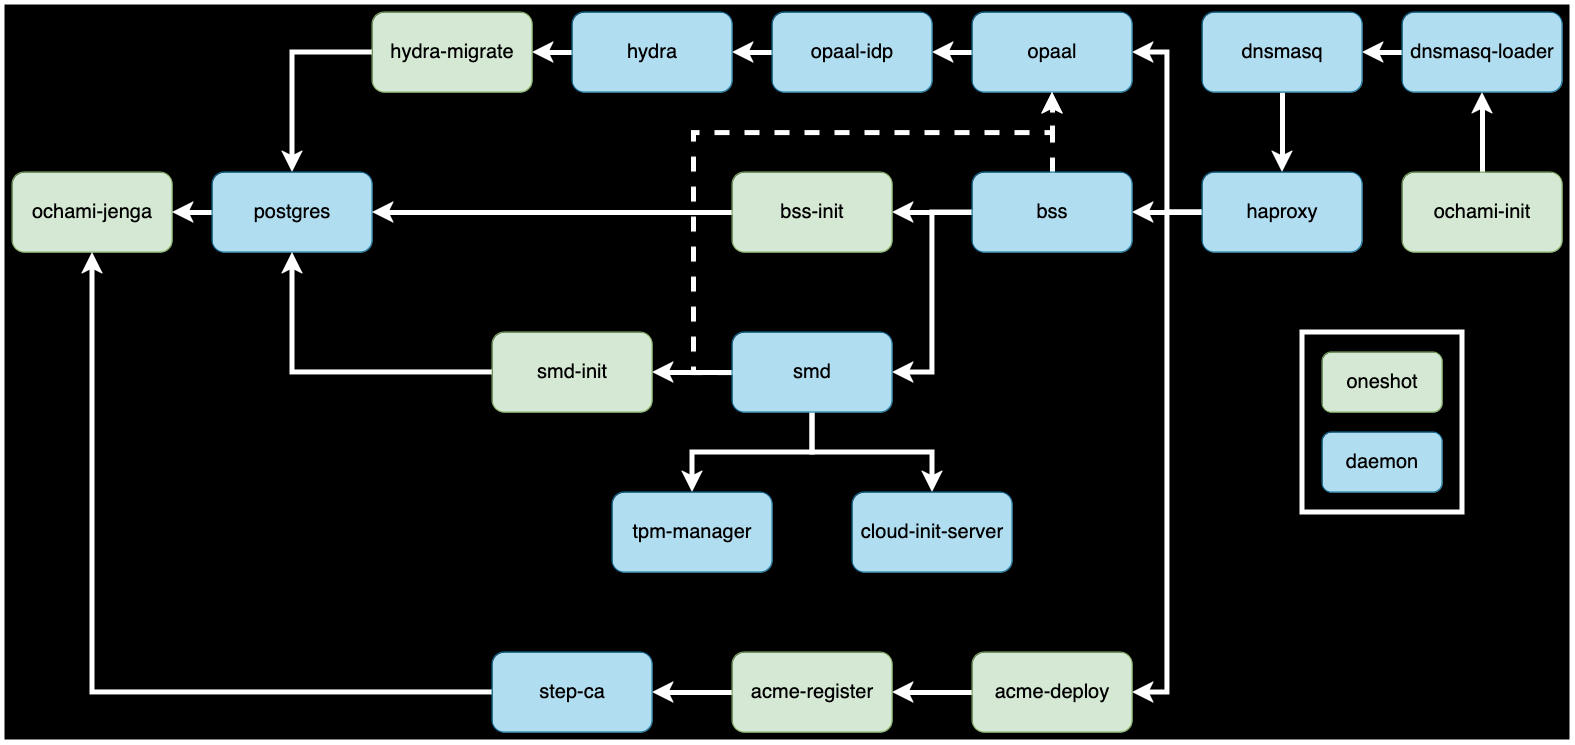
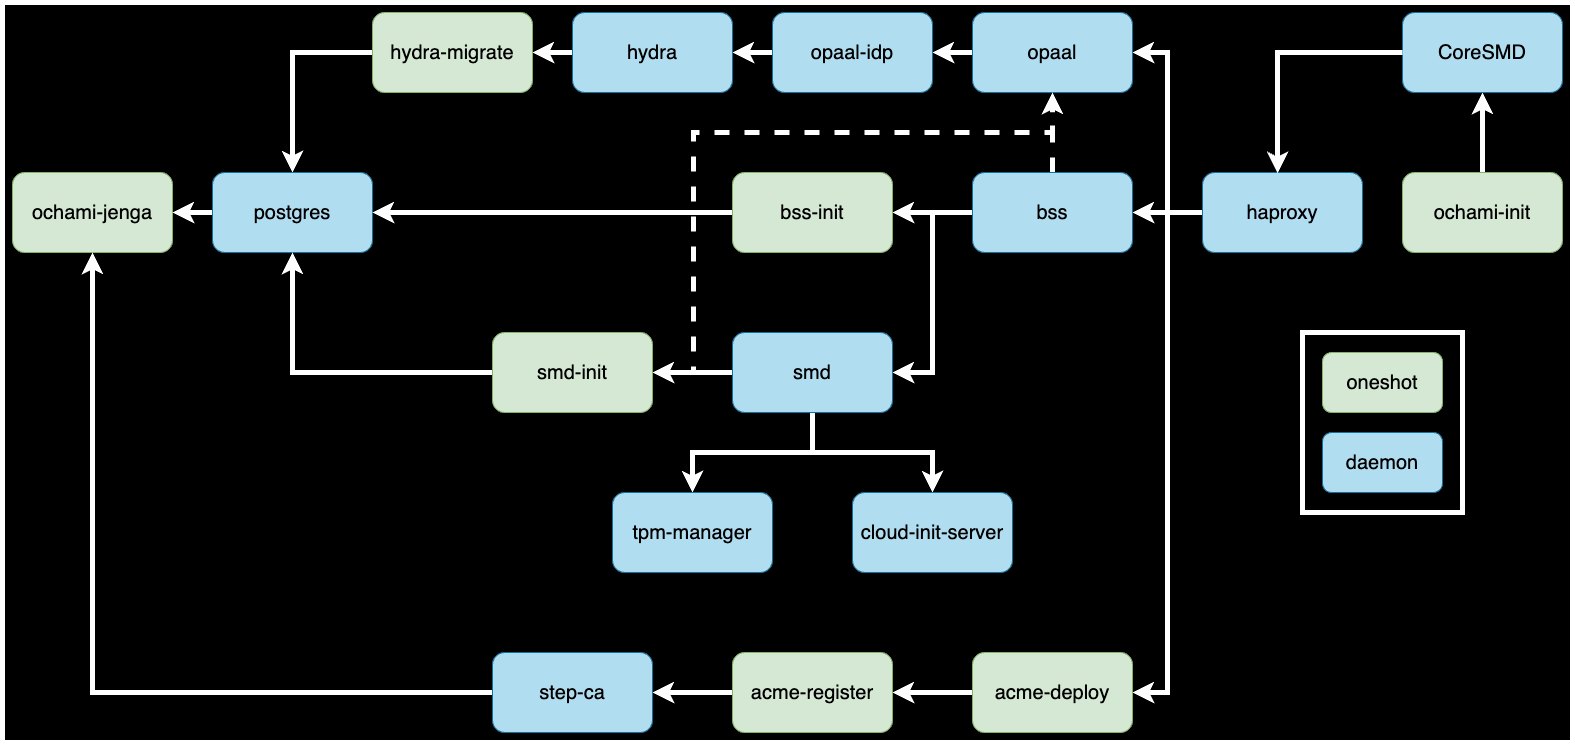
updated README

diff --git a/README.md b/README.md
@@ -122,9 +122,6 @@ We wrote a custom cloud-init server that does some things similar to BSS. It wil
 The server has two endpoints: `/cloud-init` and `cloud-init-secure`. Aptly named, the secure functions like the regular endpoint but requires a JWT to read from it. This is how we are providing secret data to the cluster nodes. 
 ### TPM-manager
 Not so aptly named, this service is a weird one. It's inital function was to experiment on configuring TPMs during boot. But some of the test systems did not have TPMs and so it's basic function is to generate a JWT and push it to the nodes during boot. 
-### dnsmasq-load and dnsmasq
-OpenCHAMI doesn't have it's own DHCP implementation and that is intentional. We try leverage existing software where we can and dnsmasq was our first attempt at integrating DHCP.
-The only customization is we added was the dnsmasq-loader. It runs a python script every minute to read from SMD and populate the dnsmasq config.
 
 ### opaal and Hydra
 #### Hydra
@@ -152,10 +149,7 @@ We'll cover some of these briefly. Very Briefly.
 These are all important parts of the boot process. 
 
 #### DHCP
-DHCP is all over the place so I'm not gonna go over what DHCP is. OpenCHAMI provides a couple options for DHCP but there is no OpenCHAMI DHCP implementation. 
-We have DHCP containers available but these are built on top of pre-existing DHCP implementations. This tutorial will be using dnsmasq.
-One other option is using coreDHCP. We blur the lines here a bit because we have written a coreDHCP plugin to work with the OpenCHAMI services. 
-We will not be using coreDHCP here though. 
+DHCP is all over the place so I'm not gonna go over what DHCP is. OpenCHAMI provides a [CoreDHCP](https://github.com/coredhcp/coredhcp) plugin called [coresmd](https://github.com/OpenCHAMI/coresmd). This links up with SMD to build out the config files and also provides TFTP based on the nodes architecture. This allows us to boot many types of systems.
 
 #### iPXE
 iPXE is also something we should all be familiar with. OpenCHAMI interacts with iPXE via BSS, as explained above, but does not control the entire workflow.
@@ -181,7 +175,7 @@ A good, in depth overview of microservices can be found [here](https://microserv
 
 Containers are pretty ubiquitous now and I'm sure we've all had some ratio of positive and negative experiences.
 There are a lot of container orchestrators ranging from fairly simple like Docker and Podman to more complicated like Kubernetes. 
-OpenCHAMI DOES NOT CARE about whatever orchestrator you choose to use. The strategy recommonded is to follow the opt-in complexity model.
+OpenCHAMI DOES NOT CARE about whatever orchestrator you choose to use. The strategy recommended is to follow the opt-in complexity model.
 In other words, don't start with the most complicated deployment, start simple.
 
 The OpenCHAMI microservices are distributed as containers which allow for a flexible deployment model. 
@@ -300,8 +294,7 @@ At the end you should have these containers running:
 # podman ps | awk '{print $NF}' | sort
 bss
 cloud-init-server
-dnsmasq
-dnsmasq-loader
+coresmd
 haproxy
 hydra
 image-server
@@ -899,9 +892,10 @@ for a container's dependency. The whole startup chain looks like this
 In the Prep section we built a test image using Buildah. The image-build tool does pretty much the same thing but is a fancy python wrapper around Buildah.  
 We can build more complicated images and layer them with the `image-build` tool using simple config files. 
 
-To pull from the NMC git you might have to add SSH keys to your gitlab account
-
-Get the tool source at https://github.com/OpenCHAMI/image-builder
+Get the tool source
+```bash 
+git clone https://github.com/OpenCHAMI/image-builder
+```
 
 Then build the DNF version:
 ```bash
@@ -1028,15 +1022,16 @@ When the node next boot it will attempt to get the secure data after the JWT is 
 Slurm is outside the scope of OpenCHAMI, but we wouldn't have a complete(ish) system without some kind of resource management. 
 We already built an image with the slurm client so all we need to do is configure the slurm controller and we're done. Right?
 
+### Slurm Controller
 Install the controller
 ```bash
-dnf install slurm-slurmctld
+dnf install -y slurm-slurmctld-ohpc
 ```
-Then create the config file. You'll have to set the `ControlMachine` to your head node's hostname...
+Then create the config file. You'll have to set the `ControlMachine` to your head node's hostname and update the compute node hardware specifics...
 ```
-ClusterName=instructors
-ControlMachine=st-head
-SlurmUser=root
+ClusterName=demo
+ControlMachine=<head-node-hostname>
+SlurmUser=slurm
 SlurmctldPort=6817
 SlurmdPort=6818
 AuthType=auth/munge
@@ -1066,19 +1061,228 @@ TaskPlugin=task/affinity
 PropagateResourceLimitsExcept=MEMLOCK
 JobCompType=jobcomp/filetxt
 Epilog=/etc/slurm/slurm.epilog.clean
-NodeName=nid[001-009] Sockets=1 CoresPerSocket=32 ThreadsPerCore=1 State=UNKNOWN
+NodeName=nid[001-009] Sockets=2 CoresPerSocket=32 ThreadsPerCore=2 State=UNKNOWN
 PartitionName=cluster Nodes=nid[001-009] Default=YES MaxTime=INFINITE State=UP Oversubscribe=EXCLUSIVE
 SlurmctldParameters=enable_configless
 ReturnToService=1
-HealthCheckProgram=/usr/sbin/nhc
-HealthCheckInterval=300
 RebootProgram=/sbin/reboot
 ResumeTimeout=600
+```
+Setup logging for `slurmctld`
+```bash
+touch /var/log/slurmctld.log
+chown slurm:slurm /var/log/slurmctld.log
 ```
 Then start munge and the controller
 ```bash
 systemctl start munge slurmctld
 ```
+
+We have munge and slurmctld running, but we'll also need chrony
+```bash
+dnf install -y chrony
+```
+Then set the `/etc/chrony.conf` to something like...
+```ini
+pool 2.rocky.pool.ntp.org iburst
+driftfile /var/lib/chrony/drift
+makestep 1.0 3
+rtcsync
+allow 172.16.0.0/24
+keyfile /etc/chrony.keys
+leapsectz right/UTC
+logdir /var/log/chrony
+```
+Then start and enable chronyd
+```bash
+systemctl enable --now chronyd
+```
+
+We have our controller running but what about the compute settings?
+
+### Unsecure Cloud-init
+Let's use cloud-init! We'll need a couple of things
+- slurm configs
+- chrony configs
+- a populated `/etc/hosts`
+
+Since we'll be using cloud-init, let's start with a unsecure cloud-init config file `compute.yaml`.  
+we'll start by populating it with an SSH pub key. Get the contents of you pub key.
+```bash
+cat ~/.ssh/id_rsa.pub | base64 
+```
+And update `compute.yaml` to look something like
+```yaml
+name: compute
+cloud-init:
+  userdata:
+    ssh_deletekeys: false
+    write_files:
+      - content: |
[10 lines of base64/hex data omitted]
+          c3JjCg==
+        path: /root/.ssh/authorized_keys
+        encoding: base64
+  metadata:
+    instance-id: ochami-compute
+```
+Replace the `content` section with your pub key output.  
+We'll use this to build on going forward.
+
+The slurm configs are easy, we'll take advantage of Slurm's configless setting. Update the `write_files` section of `compute.yaml` to include
+```yaml
+- content: |
+    SLURMD_OPTIONS=--conf-server 172.16.0.254:6817
+  path: /etc/sysconfig/slurmd
+```
+
+Now let's do chrony, another pretty easy one. Update `write_files` again to include:
+```yaml
+- content: |
+    server 172.16.0.254 iburst
+    driftfile /var/lib/chrony/drift
+    makestep 1.0 3
+    rtcsync
+    keyfile /etc/chrony.keys
+    leapsectz right/UTC
+    logdir /var/log/chrony
+  path: /etc/chrony.conf
+```
+Now let's drop an `/etc/hosts` file on our nodes. There are better ways to do this probably but we'll keep it simple. Add the following to the `write_files` section and keep in mind the hostname of you head node:
+```yaml
+- content: |
+    172.16.0.254    demo-head
+    172.16.0.1      nid001    
+    172.16.0.2      nid002    
+    172.16.0.3      nid003    
+    172.16.0.4      nid004    
+    172.16.0.5      nid005    
+    172.16.0.6      nid006    
+    172.16.0.7      nid007    
+    172.16.0.8      nid008    
+    172.16.0.9      nid009    
+    172.16.0.101    nid-bmc001
+    172.16.0.102    nid-bmc002
+    172.16.0.103    nid-bmc003
+    172.16.0.104    nid-bmc004
+    172.16.0.105    nid-bmc005
+    172.16.0.106    nid-bmc006
+    172.16.0.107    nid-bmc007
+    172.16.0.108    nid-bmc008
+    172.16.0.109    nid-bmc009
+  path: /etc/hosts
+```
+Ok... we have all the files we need, let's add some commands to run post-boot. Add a section called `runcmd` on the same level as `write_files` under the `userdata` section with
+```yaml
+runcmd:
+  - setenforce 0
+  - systemctl stop firewalld
+  - systemctl restart chronyd
+```
+We're turning off selinux and the firewall, plus telling chrony to restart after it's config is dropped.
+
+The entire `compute.yaml` should look something like this:
+```yaml
+name: compute
+cloud-init:
+  userdata:
+    ssh_deletekeys: false
+    write_files:
+      - content: |
[10 lines of base64/hex data omitted]
+          c3JjCg==
+        path: /root/.ssh/authorized_keys
+        encoding: base64
+      - content: |
+          SLURMD_OPTIONS=--conf-server 172.16.0.254:6817
+        path: /etc/sysconfig/slurmd
+      - content: |
+          server 172.16.0.254 iburst
+          driftfile /var/lib/chrony/drift
+          makestep 1.0 3
+          rtcsync
+          keyfile /etc/chrony.keys
+          leapsectz right/UTC
+          logdir /var/log/chrony
+        path: /etc/chrony.conf
+      - content: |
+          172.16.0.254    demo-head
+          172.16.0.1      nid001
+          172.16.0.2      nid002
+          172.16.0.3      nid003
+          172.16.0.4      nid004
+          172.16.0.5      nid005
+          172.16.0.6      nid006
+          172.16.0.7      nid007
+          172.16.0.8      nid008
+          172.16.0.9      nid009
+          172.16.0.101    nid-bmc001
+          172.16.0.102    nid-bmc002
+          172.16.0.103    nid-bmc003
+          172.16.0.104    nid-bmc004
+          172.16.0.105    nid-bmc005
+          172.16.0.106    nid-bmc006
+          172.16.0.107    nid-bmc007
+          172.16.0.108    nid-bmc008
+          172.16.0.109    nid-bmc009
+        path: /etc/hosts
+    runcmd:
+      - setenforce 0
+      - systemctl stop firewalld
+      - systemctl restart chronyd
+  metadata:
+    instance-id: ochami-compute
+```
+### Secure cloud-init
+Now let's update our secure stuff. We already have a munge key from before and it should look something like
+```yaml
+name: compute
+cloud-init:
+  userdata:
+    ssh_deletekeys: false
+    write_files:
+      - content: |
[2 lines of base64/hex data omitted]
+        path: /etc/munge/munge.key
+        permission: '0400'
+        owner: 'munge:munge'
+        encoding: base64
+  metadata:
+    instance-id: ochami-compute-secure
+```
+All we need to update here is adding `runcmd` to start munge and slurmd. These are here because the config files are dropped in a pervious step but munge and slurmd require the `munge.key` which isn't in place until the second cloud-init has run.  
+Add this to `userdata` section
+```yaml
+runcmd:
+  - systemctl start munge
+  - systemctl start slurmd
+```
+
+Now let's apply these new configs
+```bash
+ochami-cli cloud-init --update-ci-data --payload compute.yaml
+ochami-cli cloud-init --update-ci-data --secure --payload compute-secure.yaml
+```
+The next time you reboot the nodes slurm should (hopefully) be working!
 
 ## The Rest...
 Now you know how to 
@@ -1089,6 +1293,5 @@ Now you know how to
 What else would you need to make this a system that can run jobs?
 
 - accounts? on the compute?
-- slurm? slurmctld?
 - some kind of PE?
 - what about network mounted filesystems?
